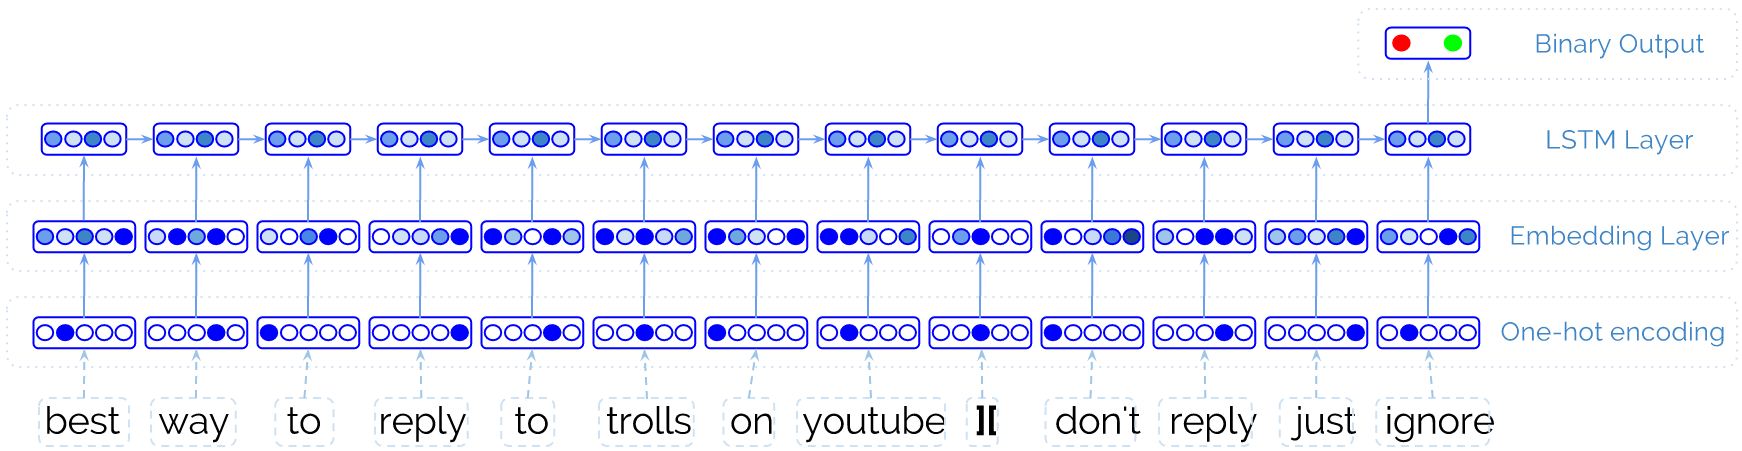
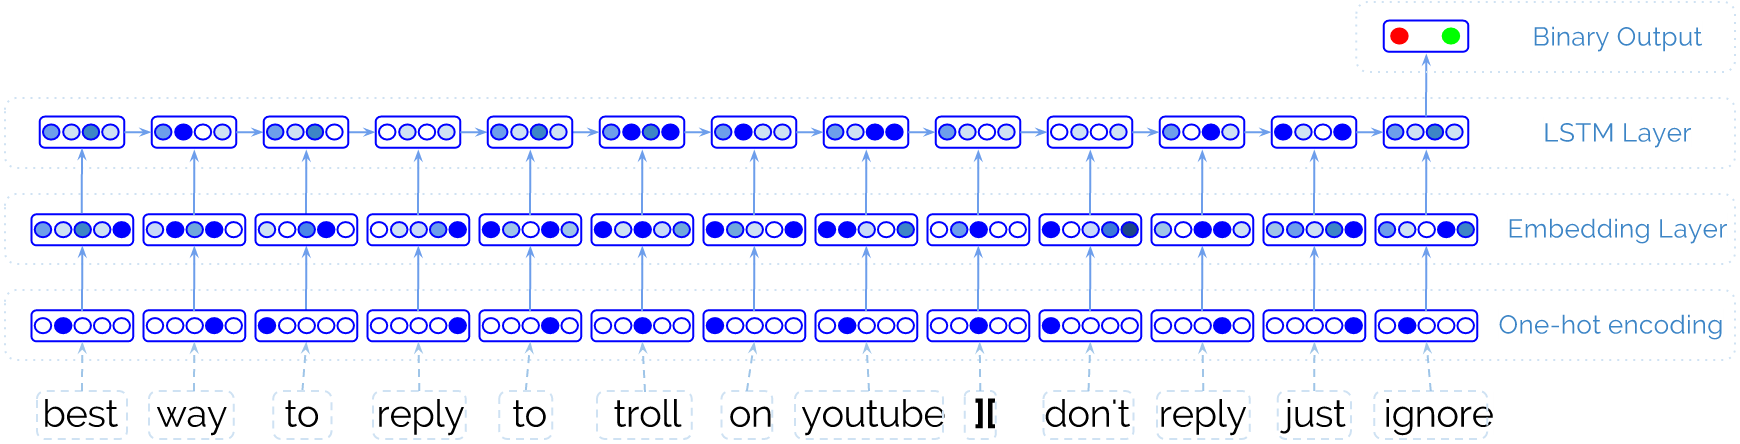
Revising the TREC paper

diff --git a/papers/dsavenk/trec15_liveqa/savenkov_trec_report.tex b/papers/dsavenk/trec15_liveqa/savenkov_trec_report.tex
@@ -1,10 +1,11 @@
 \documentclass[]{article}
 
 \usepackage{graphicx}
+\usepackage{amsmath}
 \usepackage[margin=1.0in]{geometry}
 
 %opening
-\title{Emory University at TREC LiveQA}
+\title{Ranking Answers and Web Passages for Non-factoid Question Answering: Emory University at TREC LiveQA}
 \author{Denis Savenkov\\Emory University\\dsavenk@emory.edu}
 \date{}
 
@@ -13,46 +14,55 @@
 \maketitle
 
 \begin{abstract}
-This paper describes a question answering system built by a team from Emory University to participate in LiveQA TREC shared task.
-Our system extracts candidates from answers to similar previously posted questions as well as from documents retrieved using web search API.
-The candidates are ranked using single model, trained on question-answer (QnA) pairs from Yahoo! Answers WebScope dataset\footnote{https://webscope.sandbox.yahoo.com/catalog.php?datatype=l}.
-The features used for ranking contains statistics over the candidate answer text, pairs of terms and their matches between question and answer texts and score from an LSTM neural network model, which is also trained on existing QnA pairs.
+This paper describes a question answering system built by a team from Emory University to participate in TREC LiveQA shared task.
+The system is based on a single trained model, that ranks candidate answers extracted from two different sources: answers to similar questions previously posted to Yahoo! Answers community question answering (CQA) platform and passages from documents retrieved using Bing Web Search API.
+The ranking model is trained on question and answer (QnA) pairs from Yahoo! Answers WebScope dataset\footnote{https://webscope.sandbox.yahoo.com/catalog.php?datatype=l} using pairwise ranking criteria.
+The features used for ranking includes statistics over the candidate answer text, lexicalized features of term pairs from question and answer texts, information about matched terms, Okapi BM25 retrieval score and the output produced by a Long Short-Term Memory (LSTM) neural network model.
+The system performed above average on most of the evaluation metrics.
 
 \end{abstract}
 
 \section{Introduction}
-Over the years of question answering research the focus was mainly around factoid questions, which constitute only a part of user information needs.
-Community question answering (CQA) websites such as Yahoo! Answers\footnote{http://answers.yahoo.com/} contain millions of questions and answers posted by real users.
-These questions are diverse and except factoid include opinion, advice, polls and many other types of questions. 
-LiveQA TREC\footnote{http://trec-liveqa.org/} shared task requires a system to answer questions that have been posted to Yahoo! Answers and haven't been answered yet. 
-The goal of the task is very interesting, promising and hopefully will lead to development of new systems moving the state-of-the-art in question answering further.
+% This paragraph can probably be removed, too general.
+Over the years of question answering research the focus was mainly around factoid questions, which constitute only a small part of user information needs.
+Factoid questions are usually defined as those that can be answered with a short phrase, which is often a number or a named entity.
+Causation, manner, reason, opinion, advice and other similar types of questions are beyond the scope of the factoid question answering systems.
+One way to solve these questions is to ask other people, and community question answering websites (e.g. Yahoo! Answers\footnote{http://answers.yahoo.com/}, Answer.com, StackExchange.com, etc.) became very popular and currently contain millions of questions and answers.
+This year TREC pioneered a LiveQA shared task, which targets automatic answering of questions posted to Yahoo! Answers CQA website.
+This was author's first attempt in question answering and I decided to implement a relatively simple model as a baseline that can be improved upon next year should TREC LiveQA be offered again.
 
-This was my first attempt to participate in TREC and due to time constraints I was able to implement a simple baseline system, which is based on a learning to rank model, trained on existing collection of QnA pairs.
-The machine learning system was trained with the objective to rank the ``best''\footnote{By ``best'' we mean the answer that was selected as the best answer to the given question.} answer higher than answers to retrieved similar questions.
-The system doesn't use any additional linguistic or other resources and do not try to classify questions into different types.
-The goal was to see how well a general purpose system with simple feature can do on questions of various types.
+There are a lot of different types of questions that users post to CQA websites and it is probably beneficial to study them separately.
+However, for simplicity the model I built treats all questions in the same way.
+The idea is to have a single model, that ranks a set of extracted answer candidates.
+The system doesn't try to identify if candidates match the question and simply returns the highest ranked candidate as the answer.
+Preliminary analysis of questions and potential answer sources gave an insight that the best data source is answers to similar questions in case we are able to find any.
+People often have similar tasks and situations which pose same questions.
+Therefore, it's frequently the case that a similar question was already asked by someone and potentially even received a good reply and can be reused to answer new questions \cite{Shtok:2012:LPA:2187836.2187939}.
+Of course, many questions are indeed unique or contain unique details, which makes it impossible to find a good match from the existing answers.
+Therefore I retract to web search to generate additional answer candidates.
+For non-factoid questions it's harder to use the redundancy of the information on the web, which is exploited very effectively in factoid QA \cite{Lin:2007:EPU:1229179.1229180}.
+The system I developed extracts passages containing question terms from all retrieved web documents independently.
+For training I used the publicly available collection of QnA pairs from Yahoo! Answers.
+The assumption made was that for each question the answer selected as the ``best answer'' on Yahoo! Answers is indeed the best and should be ranked higher than answers to other questions.
+However, taking all other answers is intractable and probably detrimental as almost all of them would be totally unrelated to the subject of the given question.
+Therefore, I used search to retrieve a set of similar questions and took their answers as negative examples.
+The following chapters describe the QA system in more details.
 
 \section{Approach}
 
 \begin{figure}
-	\includegraphics[width=450px]{img/qa_model}
+	\includegraphics[width=460px]{img/qa_model}
 	\caption{Architecture of our question answering system}
 	\label{figure:qa_model}
 \end{figure}
 
 The general architecture of our question answering system is presented on Figure \ref{figure:qa_model}.
-The system uses two primary data sources for generating answer candidates.
-People often have similar tasks and situations which generate similar questions, therefore, it's frequently the case that a similar question was already asked by someone and potentially even received a good answer.
-Previous research have explored using such data to answer new questions (e.g. \cite{Shtok:2012:LPA:2187836.2187939}), therefore we decided to use answers to previously posted similar questions as the first source of candidates.
-However, many questions are still unique and in addition it is often hard to find similar questions in a large collection.
-Therefore we also use web search to retrieve some possibly relevant documents and extract candidates from them.
-After a set of candidates is generated from both sources, they are combined together in a single pool, features are generated for every one of them and the candidates are ranked with a trained model.
-The top candidate is returned as the answer.
-Now we will describe all stages in more detail.
+It uses two primary data sources for generating answer candidates: answers to similar questions from Yahoo! Answers website and documents retrieved using web search. 
+All candidates are mixed together, ranked and the top answer is returned.
 
 \subsection{Candidate generation}
  
-Each question issued to a QA system in LiveQA TREC consists of 3 main parts: question title, question body and question category.
+Each question issued to a QA system in TREC LiveQA consists of 3 main parts: title, body and category.
 For example:
 
 \vspace{0.3cm}
@@ -65,14 +75,14 @@ For example:
 \end{tabular}
 \vspace{0.3cm}
 
-When our QA system receives a question it first generates a set of candidate answers from Yahoo! Answers and regular web search.
+When the QA system receives a question it first generates a set of candidate answers from Yahoo! Answers and regular web search.
 To generate a set of candidates the system produces one or more search queries and issues them to both resources.
 
 To find similar questions and extract the corresponding answers from Yahoo! Answers we use the search functionality already available on the website.
-Some questions are very concise while the others provide many useful as well as redundant details.
-For many long queries the search doesn't return any results, therefore our system generates a set of search queries of various detail level and issues them all to Yahoo! Answers search and collects top 10 responses from all of them.
+Some questions are very concise while other provide many useful as well as redundant details.
+Ideally we want to match as many of them as possible, however, there is a chance that search won't return any results if there are no good matches.
+Therefore the system generates a set of search queries of various details level, issues them all to Yahoo! Answers search and collects top 10 responses from all of them.
 Here is the list of queries that our system generates:
-For Yahoo! Answers we have many different query formulators:
 \begin{itemize}
 	\setlength\itemsep{0mm}
 	\item Concatenation of question title and question body (with and without stopwords)
@@ -83,66 +93,73 @@ For Yahoo! Answers we have many different query formulators:
 	\item Top 5 terms from question title and body scored by tf-idf
 \end{itemize}
 
-For top-10 unique retrieved questions the system extracts the top answer if provided and puts it into the candidate pool along with some information about the corresponding question and its category.
+For each query and top-10 retrieved questions the system extracts its top answer if provided and puts it into the candidate pool along with some information about the corresponding question and its category.
 
-Web search candidate generation is more expensive and we only try two queries for each question: question title and concatenation of title and body.
-Recently it was shown \cite{askmsr_plus15} that search engines have improved in processing verbose queries and reformulations are not necessary.
+To extract candidate passages from relevant web documents previous research in factoid question answering have tried query reformulations \cite{Agichtein:2001:LSE:371920.371976} to better match the potential answer text.
+However recently \cite{askmsr_plus15} demonstrated that such reformulations are no longer necessary as search engines have improved the query processing techniques.
+Inspired by this observation and considering that retrieving web documents and extracting passages from them is more time consuming, the system issues only 2 web search queries: question title and title concatenated with body. 
 We use Bing Web Search API\footnote{http://datamarket.azure.com/dataset/bing/searchweb} and the system downloads top-10 retrieved documents, parses HTML code and extracts the main content text \cite{Kohlschutter_2010}.
 Document content is further split into sentences \cite{manning2014stanford} and candidates are built by taking contiguous sequence of sentences no longer than the answer character limit\footnote{In the final run the limit was 1000 characters}.
-We only keep passages that contain at least one non-stopword from the question.
+The model only keeps passages that contain at least one non-stopword from the question.
+Snippet generated by Bing and included in search results returned by the API is also added as one of the candidates.
 
 \subsection{Candidate ranking}
 
-To rank the candidate answers we adopt machine learning approach and train a single linear model that scores candidates represented by a set of features (the list of features is given in Table \ref{table:features}).
-The candidate with the highest score is returned as the answer to the question.
-If something goes wrong and no candidates were generated the system returns ``I don't know'' as the default answer.
+A trained linear logistic regression model is used to rank candidate answers, represented with a set of features:
+\begin{itemize}
+\setlength\itemsep{0mm}
+\item answer text statistics: length in character, tokens and sentences, average number of tokens per sentence.
+\item Okapi BM25 scores, which consider question title and concatenation of title and body as queries. Term statistics were computed on Yahoo! Answers WebScope dataset. The score is calculated as follows:
+\begin{equation*}
+\label{equation:bm25}
+\text{score}(A,Q) = \sum_{i=1}^{n} \text{IDF}(q_i) \cdot \frac{f(q_i, A) \cdot (k_1 + 1)}{f(q_i, A) + k_1 \cdot (1 - b + b \cdot \frac{|A|}{\text{avg\_al}})}
+\end{equation*}
+where $f(q_i, A)$ is frequency of term $q_i$ in the answer text, $k_1=1.2$, $B=0.75$ and $avg_al=50$ (average answer length).
+\item term matches features: lemmas, part of speech tags of matched terms between the question and answer texts, the fraction of unique question terms matched in the answer, length of the maximum span of matched terms in the answer.
+\item number of matched terms between the question title, body and the title of the page from which the candidate answer is retrieved. For Yahoo! Answers the text of the retrieved question is used as title.
+\item category match feature for Yahoo! Answers candidates.
+\item pairs of lemmas from question and answer texts, that are supposed to bridge the lexical gap between question and answer language.
+\item average, minimum and maximum normalized pointwise mutual information (NPMI) scores between pairs of terms from the question and answer texts. The scores are estimated from QnA pairs from Yahoo! Answers WebScope dataset using the following formula:
+\begin{equation*}
+\begin{split}
+\operatorname{npmi}(q_i;a_j) = \frac{pmi(q_i;a_j)}{-\log p(q_i,a_j)}\\
+\operatorname{pmi}(q_i;a_j) = \log\frac{p(q_i,a_j)}{p(q_i)p(a_j)} =  \log\frac{p(a_j|q_i)}{p(a_j)}
+\end{split}
+\end{equation*}
+\item QnA pair score from a Long Short Term Memory (LSTM) neural network model, described in Section \ref{section:lstm}.
+\end{itemize}
 
-\begin{table}[t]
-\caption{Features used to rank candidate answers}
-\begin{tabular}{|c|p{13cm}|}
-\hline
-Feature name & Description \\
-\hline
-\hline
-q-a lemma pairs & Concatenation of lemmas from question and answer texts\\
-BM25 & BM25 scores of the candidate answer computed for the question title, body and concatenation of both. Collection statistics is taken from WebScope dataset of QnA pairs. \\
-term matches & Outputs lemmas of terms matched in the question and answer text as well as percent and the total number of matched terms, POS tags of matched terms, length of the maximum span of matched terms\\
-npmi & average, maximum and minimum normalized PMI scores between question and answer terms. NPMI scores are computed based on the WebScope collection of QnA pairs.\\
-category match & boolean feature which is one if category of retrieved Yahoo! Answers QnA pair matches one asked\\
-page title & Matches between question lemmas and lemmas of the retrieved page title. For Yahoo! Answers question text is used as the title.\\
-answer stats & Statistics of the answer text, such as length in sentences in tokens, etc.\\
-LSTM model & score returned for QnA pair by an LSTM model trained to predict the correct question-best answer pair\\
-\hline
-\end{tabular}
-\label{table:features}
-\end{table}
+The candidate with the highest score is returned as the answer to the question.
+If something goes wrong and no candidates were generated or some problem occurred the system returns ``I don't know'' as the default answer.
 
 \subsection{Model Training}
 
-There are two trained models used in the system: LSTM recurrent neural network based model, which is used as one of the features for the final logistic regression model that scores all of the candidate answers.
+There are two trained models used in the system: LSTM recurrent neural network based model, which is used as one of the features for the final logistic regression model that scores all candidates and selects the best one as the answer.
 
 \subsubsection{LSTM model}
+\label{section:lstm}
 
-After a huge success of deep learning models in image and speech problems, researchers started to look deeper into applying these techniques to natural language processing and question answering, e.g. \cite{yu2014deep,diwang_lstm_2015}.
-We decided to try to build a similar model to produce a score, which can be used as one of the features for the final ranking model.
-We chose LSTM recurrent neural network architecture to produce a vector representation of question and answer pair, which is used to make a binary prediction of whether this is a good answer for the question.
+Deep learning models have a huge success in image and speech problems and shows some very promising results in natural language processing and question answering, e.g. \cite{yu2014deep,diwang_lstm_2015} to name a few.
+I decided to explore this direction and built a recurrent neural network model to score how well does a candidate answer a question.
+Long Short-Term Memory (LSTM) \cite{hochreiter1997long} is a particular architecture of recurrent neural networks that allows to reduce exploding and vanishing gradients problems.
+The model I developed reads question and answer tokens and produces a probability score based on a vector representation of a QnA pair.
 Figure \ref{figure:lstm_model} shows a structure of the model.
 
 \begin{figure}
 	\includegraphics[width=470px]{img/qa_lstm}
-	\caption{LSTM model for predicting the correct answer}
+	\caption{LSTM model for answer scoring. The example shows a QnA pair where the question is ``Best way to reply to trolls on youtube?'' and the answer is ``Don't reply, just ignore''.}
 	\label{figure:lstm_model}
 \end{figure}
 
-Question and answer are tokenized, stopwords and punctuation are removed.
-The sequences of tokens are limited to 100 elements and concatenated through a sentinel separator character so the model knew where the question finishes and the answer starts.
-The hidden state of the model after it finishes processing a sequence is fed to a logistic unit for a binary class prediction (class 1 represents a good answer for the question and -1 something that doesn't fit well).
+Question (title with body) and answer texts are tokenized, punctuation characters are removed and for each token lowercase lemma is taken.
+The sequences are limited to 100 elements and concatenated through a sentinel separator character so the model knows where the question the answer starts.
+The hidden state of the model after the whole sequence is processed is used by logistic regression unit to output a probability, that the candidate answers the question well.
 
-To train the model we used a collection of Yahoo! Answers QnA pairs from WebScope dataset.
+To train the model QnA pairs from Yahoo! Answers WebScope dataset were used (we selected a subset of questions from the categories chosen for TREC LiveQA).
 Each question and the corresponding best answer was used as a positive training example.
-To generate negative example we didn't take random example as they will be totally unrelated, and instead we take answers to similar questions.
-All questions were indexed with Lucene library and for each question we took answers to 10 other retrieved questions (using BM25 retrieval model) as negative examples.
-However, it is true, that a fraction of these answers might as well answer the given question.
+To generate negative examples I didn't take random example as they will be totally unrelated, and instead took answers to similar questions.
+All questions were indexed with Lucene library and similar questions were retrieved using built-in BM25 retrieval model.
+For each question and correct answer pair from the dataset 10 similar questions were retrieved and the corresponding answers were used as negative examples for training\footnote{It's true, that some of them can indeed be relevant to the original question}.
 
 The model was implemented using Keras\footnote{http://keras.io} library.
 We used an embedding and hidden layers of dimension 128 and the vocabulary size of 1M words (we used hashing to generate word ids).
@@ -151,31 +168,19 @@ The model was trained using Adam optimization technique \cite{kingma2014adam} wi
 \subsubsection{Logistic regression model}
 
 The final model that ranks all answer candidates is a linear L2-regularized logistic regression model.
-To train the model we use a similar setup and also use QnA pairs from Yahoo! Answers WebScope dataset (we use different subsets for training LSTM and logistic regression models). 
-For each question and the corresponding correct answer we use Lucene index to retrieve answers to 10 most similar questions.
-To train the model we took pairwise approach for learning to rank and generate a training example for pairs of different answers to the same question, where one answer is the correct one.
-Each such pair is represented with differences of features of the original answers and an instance is assigned to class 1 if the first answer in the pair is the correct one and to class -1 otherwise.
+To train the model we also use QnA pairs from Yahoo! Answers WebScope dataset, although different splits are used to train LSTM and logistic regression models.
+For each question the corresponding ``best answer'' is taken as the correct one.
+To get a sample of negative examples Lucene index is used again and answers to 10 most similar questions are retrieved.
+Different from LSTM model training, here I took a pairwise approach for learning to rank and generated a training examples from pairs of different answers to the same question, where one answer is the correct one.
+That is, let the current question be $Q$, its ``correct'' answer $A^*$, and retrieved candidates $A_1, ..., A_n$.
+Each candidate is represented with a set of features: $f(Q, A^*)$, $f(Q, A_1)$, ..., $f(Q, A_n)$.
+For each $i=1..n$ we create two training instances, i.e. class 1: $\langle A^*, A_i\rangle$ and class -1: $\langle A_i, A^*\rangle$.
+Each such instance is represented with pairwise differences of answer features, e.g. $\langle A^*, A_i\rangle: f_{pair}(Q, \langle A^*, A_i\rangle) = f(Q, A^*) - f(Q, A_i)$.
+Since the trained model is linear, therefore if $w(f(Q, A^*) - f(Q, A_i)) > 0$ then $w f(Q, A^*) > w f(Q, A_i)$ and we can rank candidates by the score produced by the model, i.e. $w f(Q, A_i)$.
 
-\section{Results}
+\section{Results and Analysis}
 
-Table \ref{table:liveqa-results} provides the official results our run and average scores for all runs.
-
-\begin{table}
-\caption{Results of the LiveQA evaluation of Emory University QA system and average results of all systems. $\uparrow$ means that results of Emory system in this metric is higher than average, and $\downarrow$ means that results are below average}
-\label{table:liveqa-results}
-\begin{tabular}{|p{2cm}|p{1.4cm}|p{1.3cm}|p{1.3cm}|p{1.3cm}|p{1.3cm}|p{1.3cm}|p{1.3cm}|p{1.3cm}|}
-\hline
-name & avg score (0-3) & succ@1+ & succ@2+ & succ@3+ & succ@4+ & prec@2+ &
- prec@3+ & prec@4+ \\
-\hline
-Average of all runs & 0.465 & 0.925 & 0.262 & 0.146 & 0.060 & 0.284 & 0.159 & 0.065\\
- \hline
-Emory run & 0.605$\uparrow$ & 0.812$\downarrow$ & 0.332$\uparrow$ & 0.190$\uparrow$ & 0.086$\uparrow$ & 0.408$\uparrow$ & 0.233$\uparrow$ & 0.106$\uparrow$\\
-\hline
-\end{tabular}
-\end{table}
-
-From the final run of the system 1087 questions were judged on a scale from 1 to 4, where each of the scores mean:\\
+From the final run of the system, 1087 questions were judged by the organizers on a scale from 1 to 4:\\
 \textbf{4: Excellent} - a significant amount of useful information, fully answers the question\\
 \textbf{3: Good} - partially answers the question\\
 \textbf{2: Fair} - marginally useful information\\
@@ -189,17 +194,38 @@ The following performance metrics were reported:
 \item \textbf{succ@i+}: the fraction of answers with score i or greater (i=1..4)
 \item \textbf{prec@i+}: the number of questions with score i or greater (i=2..4) divided by the number of answered questions
 \end{itemize}
+Table \ref{table:liveqa-results} provides the official results of our run and average scores over all runs.
+
+\begin{table}
+\caption{Results of the TREC LiveQA evaluation of Emory University QA system and average results of all systems. $\uparrow$ means that results of Emory system in this metric are above average, and $\downarrow$ means that results are below average}
+\label{table:liveqa-results}
+\begin{tabular}{|p{2cm}|p{1.4cm}|p{1.3cm}|p{1.3cm}|p{1.3cm}|p{1.3cm}|p{1.3cm}|p{1.3cm}|p{1.3cm}|}
+\hline
+ & avg score (0-3) & succ@1+ & succ@2+ & succ@3+ & succ@4+ & prec@2+ &
+ prec@3+ & prec@4+ \\
+\hline
+Average of all runs & 0.465 & 0.925 & 0.262 & 0.146 & 0.060 & 0.284 & 0.159 & 0.065\\
+ \hline
+Emory run & 0.605 $\uparrow$ & 0.812 $\downarrow$ & 0.332 $\uparrow$ & 0.190 $\uparrow$ & 0.086 $\uparrow$ & 0.408 $\uparrow$ & 0.233 $\uparrow$ & 0.106 $\uparrow$\\
+\hline
+\end{tabular}
+\end{table}
 
 As we can see from Table \ref{table:liveqa-results} for most of the metrics except succ@1+ results of our run is above average.
-The metric succ@1+ shows that our system had larger number of unanswered questions.
-This fact is caused by a couple of technical issues that happened during the final run day.
-One of these issues resulted in the system log to be deleted, which makes a more detailed analysis of system behavior impossible.
+The metric succ@1+ shows the fraction of questions for which a readable answer was returned by the system.
+A lower score in this metic means that my system didn't return an answer in time in almost 20 \% of the cases.
+A part of the problem is caused by several technical issues, that appeared on the day of the evaluation run.
+Due to one of them LSTM model didn't provide any score for a significant fraction of submitted questions, and the other problem made the whole system unresponsive for a couple of hours.
+Nevertheless, the overall results look promising and I will make a more thorough analysis of the system performance for the final version of the paper.
 
-
-
-\section{Related Work}
+The absolute values of the performance metrics demonstrate a great room for improvement as our system was able to return partial or good answer only in 23\% of the cases (prec@3+) when the answer was returned.
+And for 60\% of the questions the answer doesn't contain any useful information.
 
 \section{Conclusion}
+TREC LiveQA is a very exciting task, which will trigger an advancement of question answering state-of-the-art beyond the factoid questions.
+I've enjoyed working on the task and hope to see the next version in the upcoming year.
+The developed system performance is a good baseline, which showed how difficult it is to find good answers for non-factoid questions.
+
 
 \bibliographystyle{unsrt}
 \bibliography{bibliography.bib}
